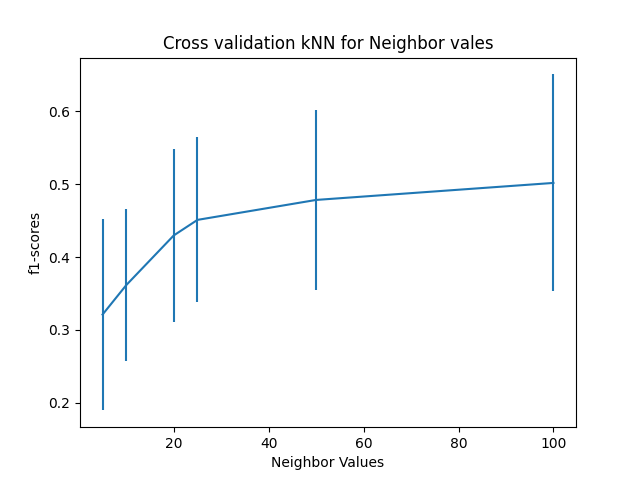
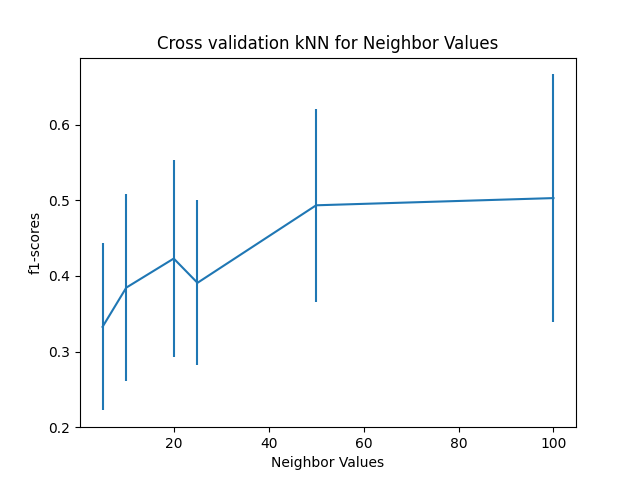
Rebased for push

diff --git a/kNN_classifier.py b/kNN_classifier.py
@@ -1,9 +1,10 @@
 from sklearn.dummy import DummyClassifier
-from sklearn.metrics import f1_score
+from sklearn.metrics import f1_score, classification_report
 from sklearn.model_selection import KFold, train_test_split
 from sklearn.neighbors import KNeighborsClassifier
 import numpy as np
 import matplotlib.pyplot as plt
+from sklearn.metrics import confusion_matrix
 
 # gamma for Knn gaussian calculation
 from plot_multi_ROC import plot_multi_ROC
@@ -35,7 +36,7 @@ def test_neighbors(input_prepared, output_prepared):
         std_errs.append(np.std(tmpMeanErr))
 
     plt.errorbar(kfolds, mean_errs, yerr=std_errs)
-    plt.title('Cross validation kNN for Neighbor vales')
+    plt.title('Cross validation kNN for Neighbor Values')
     plt.xlabel("Neighbor Values")
     plt.ylabel("f1-scores")
     plt.savefig("Graphs/kNN_Neigh_Crossval")
@@ -69,17 +70,16 @@ def test_gamma(input_prepared, output_prepared):
 
 
 def compare_tuned_model(input_data, output_data):
-    # Tunned Model
-    Xtrain, Xtest, ytrain, ytest = train_test_split(
-        input_data, output_data, test_size=0.33, random_state=1)
-    tunned_knn_model = KNeighborsClassifier(
-        n_neighbors=50, weights='uniform').fit(Xtrain, ytrain)
+    ## Tunned Model
+    Xtrain, Xtest, ytrain, ytest = train_test_split(input_data, output_data, test_size=0.33, random_state=1)
+    tunned_knn_model = KNeighborsClassifier(n_neighbors=50, weights='uniform').fit(Xtrain, ytrain)
     tuned_model_ypred = tunned_knn_model.predict(Xtest)
-    print("Tuned Knn f-1 score: " +
-          str(f1_score(ytest, tuned_model_ypred, average='weighted')))
+    print("Tuned Knn f-1 score: " + str(f1_score(ytest, tuned_model_ypred, average='weighted')))
+    print(confusion_matrix(ytest, tuned_model_ypred))
+    print(classification_report(ytest, tuned_model_ypred))
 
-    # Dummy Model
-    dummy_classifier = DummyClassifier(strategy="most_frequent")
+    ## Dummy Model
+    dummy_classifier = DummyClassifier(strategy="uniform")
     dummy_classifier.fit(Xtrain, ytrain)
     dummy_classifier_ypred = dummy_classifier.predict(Xtest)
     print("Dummy Model f-1 score: " +
@@ -88,15 +88,16 @@ def compare_tuned_model(input_data, output_data):
     pred_prob = tunned_knn_model.predict_proba(Xtest)
     plot_multi_ROC(pred_prob, ytest, 'kNN')
 
+
 # does all experiments and tests tuned model against baseline model.
 def knn_classification(input_data, output_data):
     # gamma test
-    test_gamma(input_data, output_data)
+    # test_gamma(input_data, output_data)
     # resulting graph proves that gamma is irrelevant for this set
 
     # k test
-    test_neighbors(input_data, output_data)
+    # test_neighbors(input_data, output_data)
     # optimal k value is 50. Rather high and probably contributes to overfitting but smaller values are far less accurate
-    # Increasing K tends to increase the overall accuracy because the data is so big.
+
     # use tuned model K = 50 and Weight is uniform.
     compare_tuned_model(input_data, output_data)

diff --git a/plot_multi_ROC.py b/plot_multi_ROC.py
@@ -1,5 +1,5 @@
 from sklearn.metrics import roc_curve
-from sklearn.metrics import auc
+from sklearn import metrics
 import matplotlib.pyplot as plt
 
 
@@ -9,22 +9,19 @@ def plot_multi_ROC(pred_prob, ytest, model_name):
     thresh = {}
 
     for i in range(3):
-        fpr[i], tpr[i], thresh[i] = roc_curve(
-            ytest, pred_prob[:, i], pos_label=i)
+        fpr[i], tpr[i], thresh[i] = roc_curve(ytest, pred_prob[:, i], pos_label=i)
 
+    print("Fatal AUC:" + str(metrics.auc(fpr[0], tpr[0])))
+    print("Serious AUC:" + str(metrics.auc(fpr[1], tpr[1])))
+    print("Slight AUC:" + str(metrics.auc(fpr[2], tpr[2])))
     # plotting
-    plt.plot(fpr[0], tpr[0], color='orange', label='Class 0 vs Rest')
-    plt.plot(fpr[1], tpr[1], color='red', label='Class 1 vs Rest')
-    plt.plot(fpr[2], tpr[2], color='blue', label='Class 2 vs Rest')
+    plt.plot(fpr[0], tpr[0], color='orange', label='Fatal vs Rest')
+    plt.plot(fpr[1], tpr[1], color='red', label='Serious vs Rest')
+    plt.plot(fpr[2], tpr[2], color='blue', label='Slight vs Rest')
     plt.plot([0, 1], [0, 1], color='green', linestyle='--', label="Baseline")
     plt.title('Multiclass ROC Curve ' + str(model_name))
     plt.xlabel('False Positive Rate')
     plt.ylabel('True Positive rate')
     plt.legend(loc='best')
-    plt.savefig("Graphs/kNN_ROC_Graph")
+    plt.savefig("Graphs/"+model_name+"_ROC_Graph")
     plt.close()
-
-    # calculate AUC
-    for i in range(3):
-        tmp_auc = auc(fpr[i], tpr[i])
-        print("Class ", i, " AUC value: ", tmp_auc)

diff --git a/main.py b/main.py
@@ -30,8 +30,7 @@ def down_sample(df):
                                        replace=False,
                                        n_samples=len(df_minority))
 
-    df_downsampled = pd.concat(
-        [df_slight_down_sampled, df_serious_down_sampled, df_minority])
+    df_downsampled = pd.concat([df_slight_down_sampled, df_serious_down_sampled, df_minority])
     return df_downsampled
 
 
@@ -44,13 +43,11 @@ def main():
     input_data = df.drop(["Accident severity"], axis=1)
 
     pipeline = ColumnTransformer([
-        ("cat", OneHotEncoder(), [
-         "Region", "Light condition", "Weather condition", "Road surface"]),
+        ("cat", OneHotEncoder(), ["Region", "Light condition", "Weather condition", "Road surface"]),
         ("ord", OrdinalEncoder(), ["Speed limit"])
     ])
 
     input_prepared = pipeline.fit_transform(input_data)
-    input_prepared = MaxAbsScaler().fit_transform(input_prepared)
     output_prepared = LabelEncoder().fit_transform(output_data)
 
     kNN_classifier.knn_classification(input_prepared, output_prepared)

diff --git a/neural_net_classifier.py b/neural_net_classifier.py
@@ -17,8 +17,7 @@ def baseline_model():
 
 
 def neural_net(input_data, output_data):
-    estimator = KerasClassifier(
-        build_fn=baseline_model, epochs=20, batch_size=5, verbose=0)
+    estimator = KerasClassifier(build_fn=baseline_model, epochs=20, batch_size=5, verbose=0)
     kfold = KFold(n_splits=10, shuffle=True)
     results = cross_val_score(estimator,  input_data, output_data, cv=kfold)
     print("Baseline: " + (results.mean() * 100, results.std() * 100))

diff --git a/README.md b/README.md
@@ -1,1 +1,9 @@
-# Machine_Learning_Project
+# Machine Learning Project 
+Jamison Engels - 17300599 - engelsjj@tcd.ie
+
+Matthew Flynn - 17327199 - flynnm20@tcd,ie
+
+Jamie Coffey - 17336373 - coffeyja@tcd.ie
+
+
+ 
